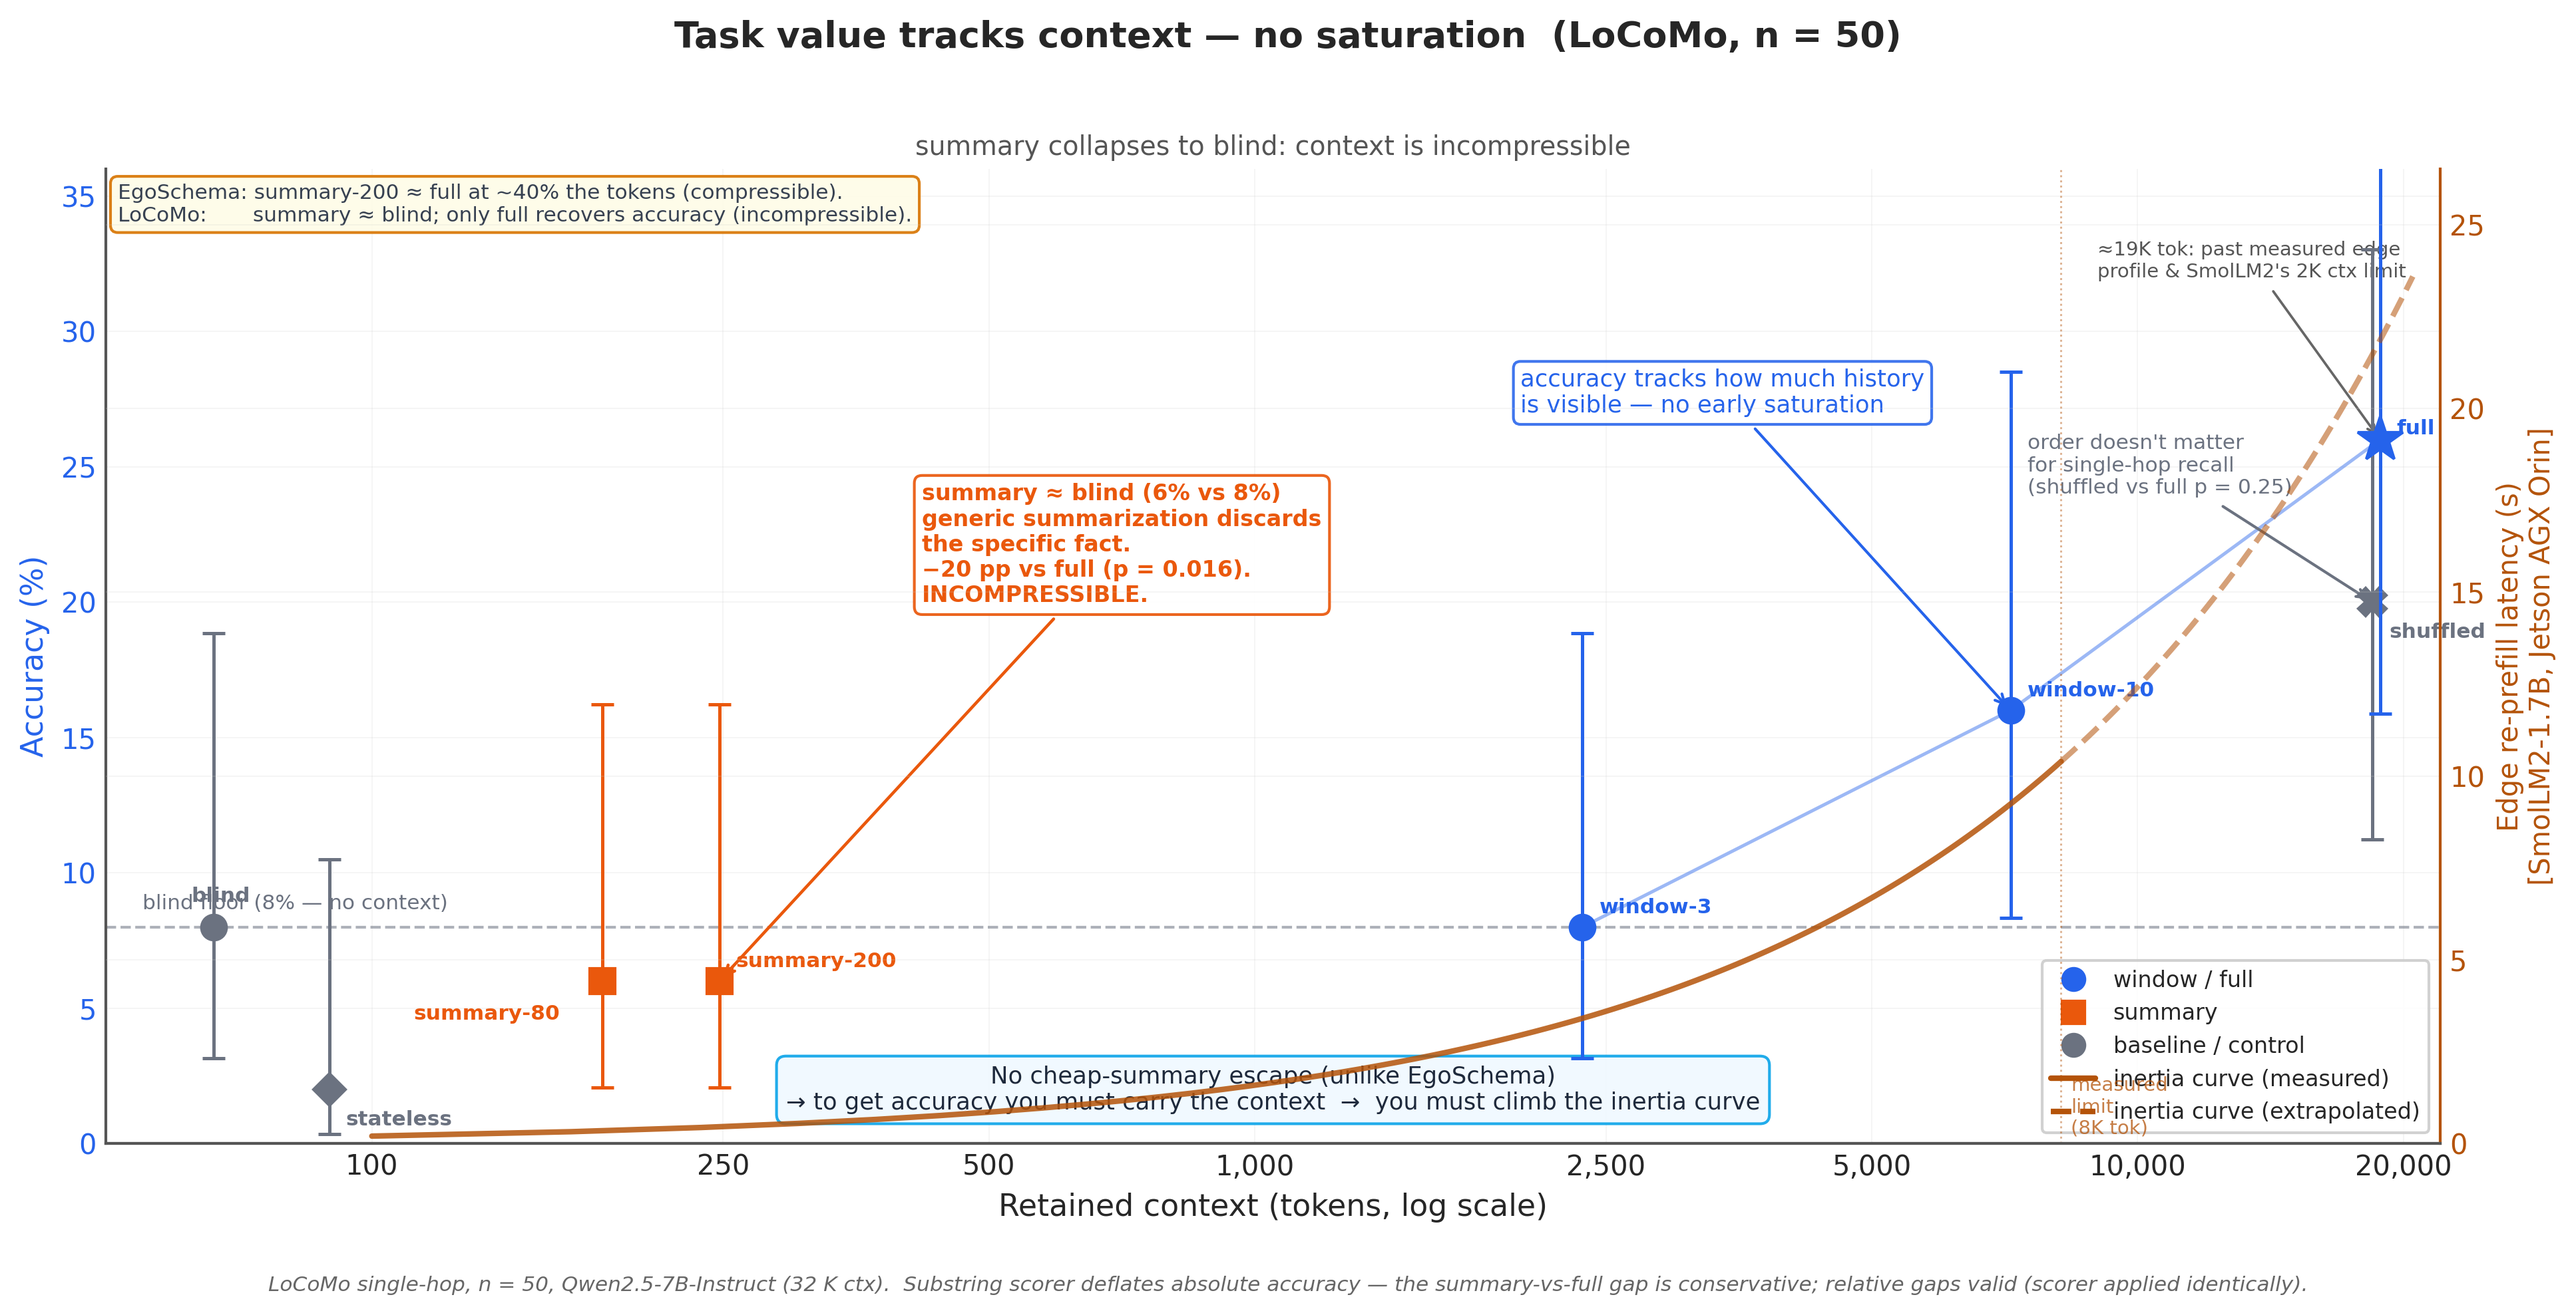
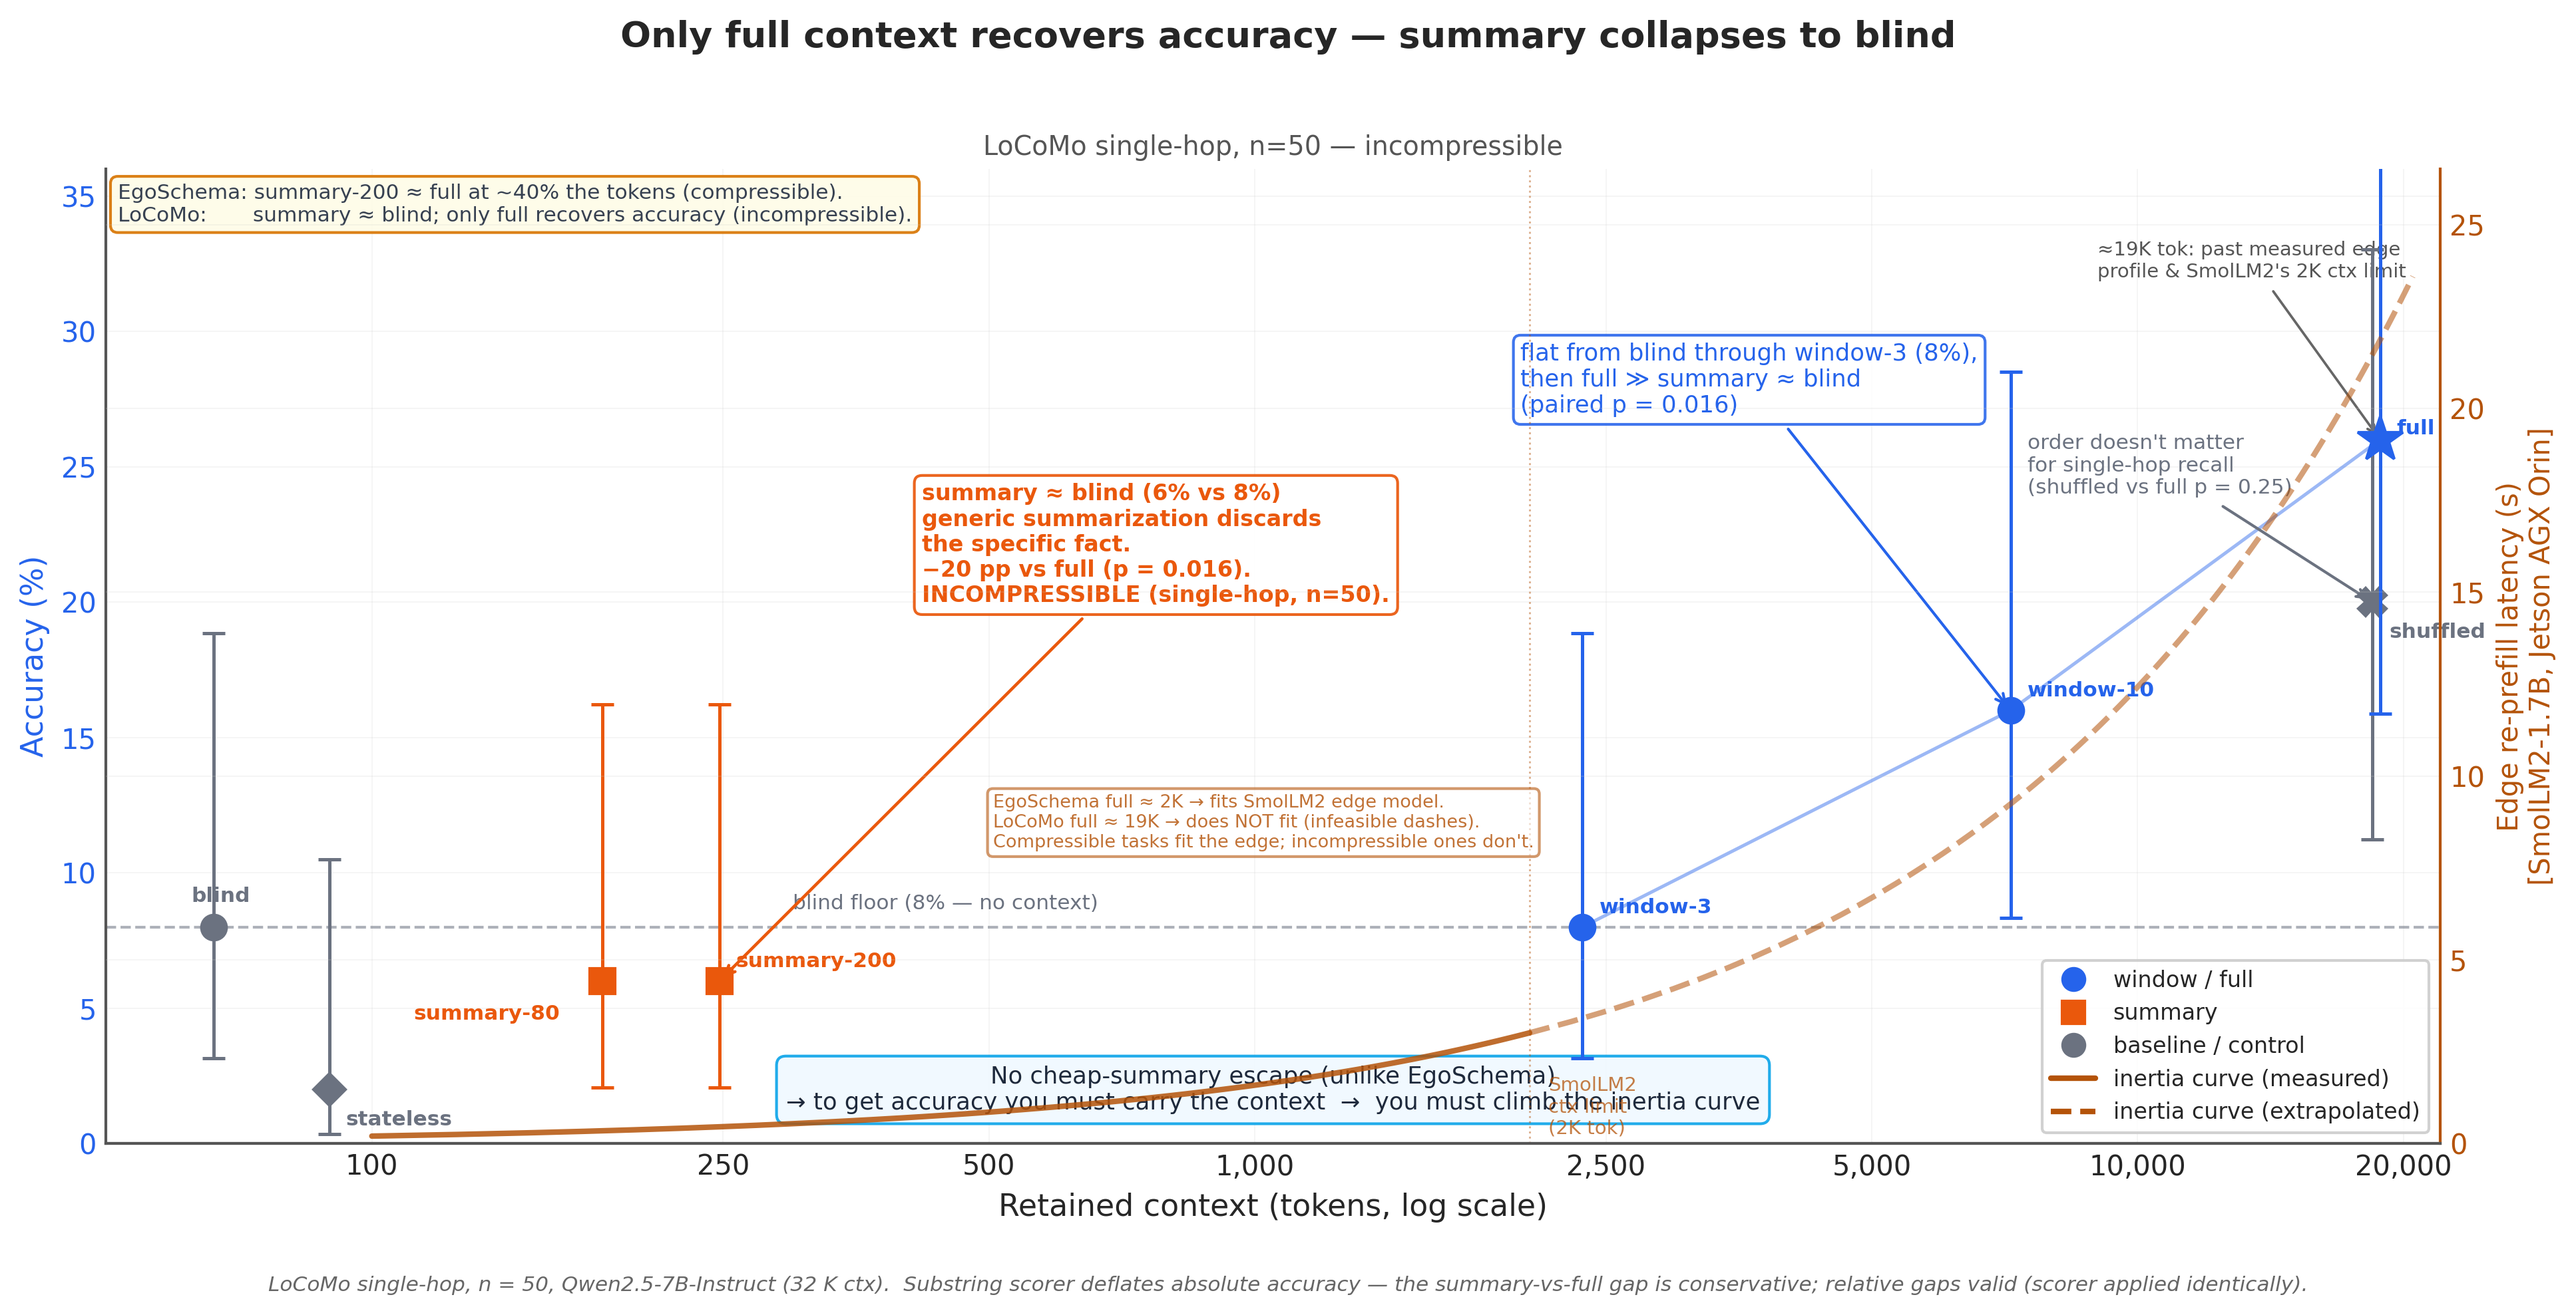
changes

diff --git a/plots/fidelity/crossover_locomo.py b/plots/fidelity/crossover_locomo.py
@@ -9,7 +9,7 @@ import matplotlib.ticker as mticker
 import matplotlib.lines as mlines
 from pathlib import Path
 
-ROOT = Path(__file__).resolve().parent.parent
+ROOT = Path(__file__).resolve().parent.parent.parent
 FIGURES = ROOT / "figures"
 FIGURES.mkdir(exist_ok=True)
 
@@ -42,7 +42,7 @@ plt.rcParams.update({
 
 # ── Load data ──────────────────────────────────────────────────────────────────
 
-locomo = json.load(open(ROOT / "results" / "frontier_locomo_qwen7b.json"))
+locomo = json.load(open(ROOT / "results" / "fidelity" / "frontier_locomo_qwen7b.json"))
 sm = locomo["summary"]
 
 def s(name):
@@ -77,19 +77,28 @@ ax2.spines["right"].set_edgecolor(AMBER)
 
 # ── Inertia curve ──────────────────────────────────────────────────────────────
 
-meas_curve_x = np.linspace(100, 8192, 120)
+meas_curve_x = np.linspace(100, 2048, 80)
 meas_curve_y = [inertia_s(x) for x in meas_curve_x]
-extrap_x = np.linspace(8192, 20500, 60)
+extrap_x = np.linspace(2048, 20500, 80)
 extrap_y = [inertia_s(x) for x in extrap_x]
 
 ax2.plot(meas_curve_x, meas_curve_y,  color=AMBER, lw=2.0, ls="-",  alpha=0.85, zorder=1,
-         label="edge re-prefill (measured)")
+         label="edge re-prefill (measured, ≤2K tok)")
 ax2.plot(extrap_x, extrap_y,          color=AMBER, lw=2.0, ls="--", alpha=0.55, zorder=1,
-         label="edge re-prefill (extrapolated)")
+         label="edge re-prefill (extrapolated / infeasible on SmolLM2)")
 
-# Measured limit marker
-ax2.axvline(8192, color=AMBER, lw=0.7, ls=":", alpha=0.45)
-ax2.text(8400, 0.15, "measured\nlimit\n(8K tok)", color=AMBER, fontsize=7, va="bottom", alpha=0.75)
+# Measured limit marker at 2K — SmolLM2's context limit
+ax2.axvline(2048, color=AMBER, lw=0.7, ls=":", alpha=0.45)
+ax2.text(2150, 0.15, "SmolLM2\nctx limit\n(2K tok)", color=AMBER, fontsize=7, va="bottom", alpha=0.75)
+
+# C2 — asymmetry note near inertia curve
+ax2.text(0.38, 0.30,
+         "EgoSchema full ≈ 2K → fits SmolLM2 edge model.\n"
+         "LoCoMo full ≈ 19K → does NOT fit (infeasible dashes).\n"
+         "Compressible tasks fit the edge; incompressible ones don't.",
+         transform=ax2.transAxes, fontsize=6.5, color=AMBER, alpha=0.82,
+         va="bottom", ha="left",
+         bbox=dict(boxstyle="round,pad=0.3", facecolor="white", edgecolor=AMBER, alpha=0.6))
 
 # ── Accuracy points ─────────────────────────────────────────────────────────────
 
@@ -159,7 +168,8 @@ ax2.tick_params(axis="y", labelcolor=AMBER)
 
 blind_pct = s("blind")["acc"] * 100
 ax.axhline(blind_pct, color=GRAY, lw=1.0, ls="--", alpha=0.55, zorder=1)
-ax.text(55, blind_pct + 0.5, f"blind floor ({int(blind_pct)}% — no context)",
+# C5: shift label right to avoid overlap with the blind point (~66 tok)
+ax.text(300, blind_pct + 0.5, f"blind floor ({int(blind_pct)}% — no context)",
         color=GRAY, fontsize=7.5, va="bottom")
 
 # ── Annotations ───────────────────────────────────────────────────────────────
@@ -167,7 +177,7 @@ ax.text(55, blind_pct + 0.5, f"blind floor ({int(blind_pct)}% — no context)",
 # INCOMPRESSIBLE callout — summary cluster
 ax.annotate(
     "summary ≈ blind (6% vs 8%)\ngeneric summarization discards\nthe specific fact.\n"
-    "−20 pp vs full (p = 0.016).\nINCOMPRESSIBLE.",
+    "−20 pp vs full (p = 0.016).\nINCOMPRESSIBLE (single-hop, n=50).",
     xy=(s("summary-200")["tok"], s("summary-200")["acc"] * 100),
     xytext=(420, 20),
     arrowprops=dict(arrowstyle="->", color=ORANGE, lw=1.1),
@@ -175,9 +185,9 @@ ax.annotate(
     bbox=dict(boxstyle="round,pad=0.35", facecolor="white", edgecolor=ORANGE, alpha=0.92),
 )
 
-# Accuracy tracks context — arrow to window-10
+# C3 — flat blind→window-3 then jump to full
 ax.annotate(
-    "accuracy tracks how much history\nis visible — no early saturation",
+    "flat from blind through window-3 (8%),\nthen full ≫ summary ≈ blind\n(paired p = 0.016)",
     xy=(s("window-10")["tok"], s("window-10")["acc"] * 100),
     xytext=(2000, 27),
     arrowprops=dict(arrowstyle="->", color=BLUE, lw=1.0),
@@ -220,9 +230,9 @@ ax.text(0.005, 0.985, contrast, transform=ax.transAxes,
 
 # ── Title ──────────────────────────────────────────────────────────────────────
 
-fig.suptitle("Task value tracks context — no saturation  (LoCoMo, n = 50)",
+fig.suptitle("Only full context recovers accuracy — summary collapses to blind",
              fontsize=13, fontweight="bold", y=0.985)
-ax.set_title("summary collapses to blind: context is incompressible",
+ax.set_title("LoCoMo single-hop, n=50 — incompressible",
              fontsize=9.5, color="#555", pad=5)
 
 # ── Legend ─────────────────────────────────────────────────────────────────────

diff --git a/results/INDEX.md b/results/INDEX.md
@@ -17,6 +17,8 @@ Machine-readable provenance is embedded in each JSON as `_provenance`. This inde
 **Model slugs:** `qwen7b` = Qwen/Qwen2.5-7B-Instruct · `smollm2` = HuggingFaceTB/SmolLM2-1.7B-Instruct · `qwen3b` = Qwen/Qwen2.5-3B-Instruct · `qwenvl3b` = Qwen/Qwen2.5-VL-3B-Instruct (or fine-tuned variant) · `qwenvl7b` = Qwen/Qwen2.5-VL-7B-Instruct · `mistral7b` = mistralai/Mistral-7B-Instruct-v0.2  
 **Device slugs:** `a6000` = NVIDIA RTX A6000 (flash, GPU 1) · `rtx3090ti` = NVIDIA GeForce RTX 3090 Ti (flash, GPU 0) · `jetson_orin` = Jetson AGX Orin (separate SSH host) · `jetson` = legacy alias for `jetson_orin` (pre-reorganization files only)
 
+**Result validity flags:** Any result whose `status.rerun_required_before_downstream_use == true` must be re-run or redesigned before it feeds a figure, table, or the orchestration simulator. Currently flagged: `results/archive/frontier_findingdory_qwenvl3b.json` (OOD-confounded frame-budget slope — see its `status` block). The full-frame operating point (b=96, rm=0.565) is the only FindingDory number cleared for downstream use.
+
 **Simulator pin:** `simulator/cost_model.py` imports these six files by path at load time and must not be moved:
 `results/frontier_qwen7b.json`, `results/frontier_qwen7b_perquestion.json`,
 `results/frontier_smollm2.json`, `results/frontier_smollm2_perquestion.json`,
@@ -90,7 +92,7 @@ and a run that generates new entries appends to the cache. Do not gitignore them
 | `inertia_smollm2_jetson.json` | `inertia_profile.py` | smollm2 | jetson | 5 reps × 7 depths (128–8192 tok) | re-prefill super-linear → 12.6 s @ 8k tok (0.34 s @ 128); KV residency linear 0.1875 MB/tok (1.5 GB @ 8k); D2H+serialize transfer 0.07 s → 4.06 s | pre-provenance (run 2026-06-10, predates convention) | `exp_inertia_jetson-edge_SmolLM2-1.7B.json` |
 | `inertia_smollm2_a6000.json` | `inertia_profile.py` | smollm2 | a6000 | 5 reps × 7 depths (128–8192 tok) | prefill super-linear: 12.5 ms @ 128 tok → 469.5 ms @ 8192 tok; ~2× faster than Jetson at every depth | 68e6d734 | new (no old name) |
 | `results/fidelity/frontier_locomo_qwen7b.json` | `frontier_locomo.py` | qwen7b | a6000 | 50 single-hop (cat=1) questions, 10 conversations | INCOMPRESSIBLE: full=26.0%, summary-80=6.0% (gap −20pp, p=0.016), summary-200=6.0% (gap −20pp, p=0.009). SmolLM2 'full' infeasible (2K ctx << 11K–23K history). | f6fb7d1 | new |
-| `frontier_findingdory_qwenvl3b.json` | `frontier_findingdory_v2.py` | qwenvl3b (yali30/findingdory-qwen2.5-VL-3B-finetuned) | a6000 | 300 (30 ep/cat × 2 cats × 5 budgets {96,48,24,12,6}); authors' relaxed_match metric; video pathway; empty system msg | INCOMPRESSIBLE (cliff at b=48): temporal rm 0.790→0.087 (b96→b48), multi-goal 0.339→0.010; collapse is in REASONING set (gold_survived≥1, n=30 at b=48); OOD confound (model trained only on 96 frames); REASONING set non-monotonic b<48 due to selection bias. Gate: rm=0.565 at b=96 (parse_ok=100%, consistent with authors' ~52.4% Habitat HL-SR). | f6fb7d1 | overwrites prior v1 |
+| `frontier_findingdory_qwenvl3b.json` | `frontier_findingdory_v2.py` | qwenvl3b (yali30/findingdory-qwen2.5-VL-3B-finetuned) | a6000 | 300 (30 ep/cat × 2 cats × 5 budgets {96,48,24,12,6}); authors' relaxed_match metric; video pathway; empty system msg | INCOMPRESSIBLE (cliff at b=48): temporal rm 0.790→0.087 (b96→b48), multi-goal 0.339→0.010; collapse is in REASONING set (gold_survived≥1, n=30 at b=48); OOD confound (model trained only on 96 frames); REASONING set non-monotonic b<48 due to selection bias. Gate: rm=0.565 at b=96 (parse_ok=100%, consistent with authors' ~52.4% Habitat HL-SR). ⚠ CONFOUNDED (OOD) — gate point (full-96) citable; slope NOT. Rerun/redesign required before any downstream use. See status block. | f6fb7d1 | overwrites prior v1 |
 | `results/archive/locomo_audit_qwen7b.json` *(moved to archive 2026-08-19; superseded by locomo_audit_scaled_qwen7b.json n=282)* | `locomo_audit.py` | qwen7b | a6000 | 50 cat=1 single-hop (ceiling=282); omission judge=Qwen2.5-7B YES/NO presence; evidence distance via LoCoMo dia_id annotations | INCOMPRESSIBLE BY OMISSION: full=26%, sum80=6%, sum200=6% (all 50 q in FAR bin, avg 12K tok from end). 91% of sum80 failures = gold absent from summary (compression-omission); 9% = model reasoning failure. full−sum80 gap +0.20, spread across 12/50 questions (top-1=8%, top-3=25% of gap). Mechanism confirmed: summaries fail by discarding the sparse fact, not by failing to reason. | new | new |
 | `results/fidelity/frontier_infinithor_qwen7b.json` | `frontier_infinithor.py` | qwen7b | a6000 | 60 multi-clue (NsiEH), 65/219 traj_ids shipped on HuggingFace; conditions blind/summary-80/full; lazy LLM judge | COMPRESSIBLE — gate FAIL: full=0.58, summary-80=0.55, blind=0.36 (non-salient). Full beats blind +0.22 (history used, anchors recoverable). Full−summary-80 gap only +0.03 on non-salient (threshold >0.05 not met). Distance: NEAR gap=+0.18 (n=11), MID gap=0.00 (n=5), FAR gap=−0.08 (n=13) — summary outperforms full at far distance. Dispersion: gap carried entirely by 3 trajectories, 18/21 non-salient trajs show zero or negative gap. Interpretation: at 873–2,149 tokens (mean 1,441) templated oracle logs, summary-80 captures relevant events; compressible structured-log regime. Reduced gate / orientation audit, not a benchmark characterisation. | new | new |
 | `results/fidelity/locomo_audit_scaled_qwen7b.json` | `locomo_audit_scaled.py` | qwen7b | a6000 | 282 cat=1 single-hop (full ceiling); conditions blind/window-10/summary-80/summary-200/full; omission judge=Qwen2.5-7B; evidence distance via dia_id annotations | INCOMPRESSIBLE BY OMISSION (scaled, confirmed): full=34.0% [28.8,39.8%], summary-80=9.9% [7.0,14.0%], gap=−24.1pp (p<0.001***), summary-200=9.9% (gap=−24.1pp, p<0.001***), window-10=22.0% (gap=−12.1pp, p<0.001***). Omission: 92.3% of gap cases (72/78) = gold absent from summary; 7.7% = model reasoning failure. Dispersion: gap spread across 78/282 questions; top-1=1.5%, top-3=4.4% of gap — not an outlier artifact. Distance: 96.5% FAR (>20 turns), full−s80 gap at FAR = +0.243; confirms structurally far-distance sparse-fact retrieval failure. | new | new |
